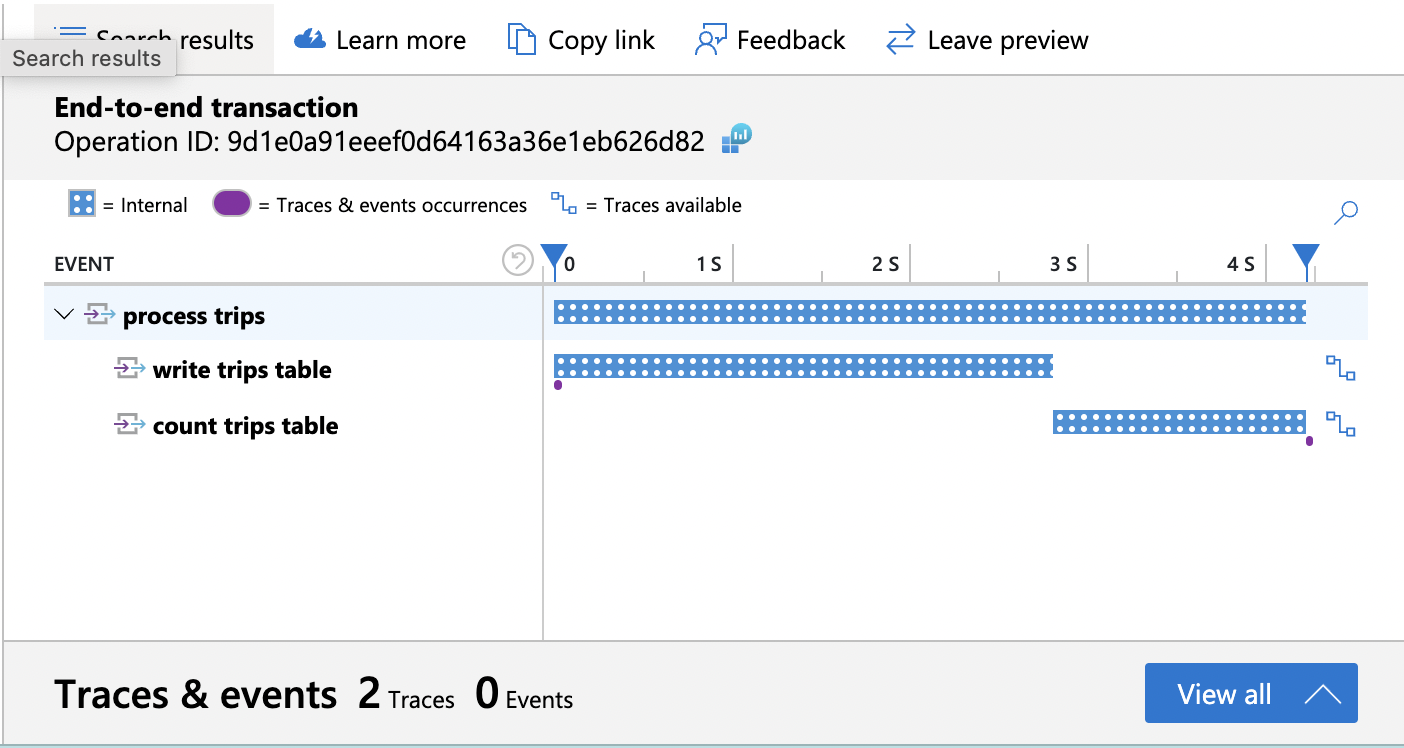
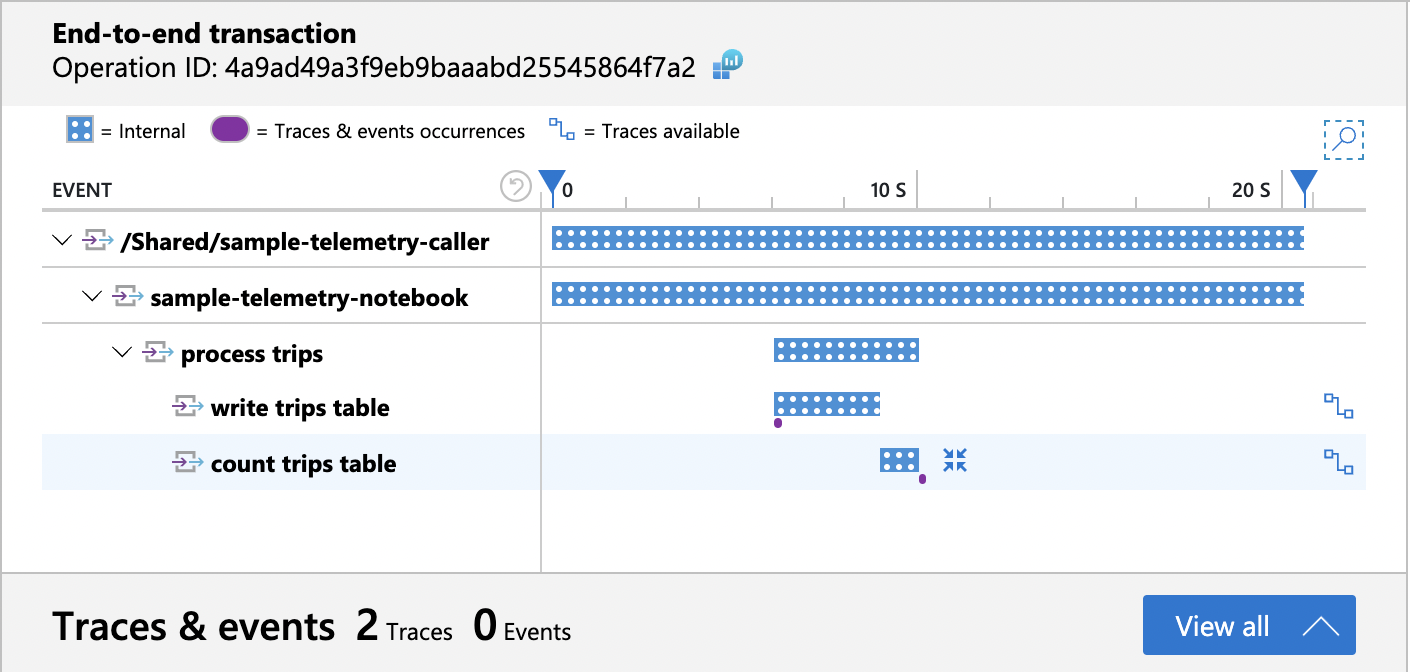
Add notebook span (#8)

diff --git a/modules/databricks/notebooks/telemetry-helper.py b/modules/databricks/notebooks/telemetry-helper.py
@@ -6,7 +6,7 @@ Application Insights. Use the following APIs to _raise_ telemetry:
 - Metrics: `opentelemetry.metrics`
 - Logs: `logging`
 """
-from typing import NamedTuple
+from typing import Any, NamedTuple
 
 _initialized = False  # Stores whether Application Insights was already configured.
 
@@ -73,19 +73,63 @@ def default_notebook_configuration() -> ApplicationInsightsConfiguration:
 
 # COMMAND ----------
 
+trace_context_carrier = None
+try:
+    trace_context_carrier = dbutils.widgets.get("_opentelemetry_trace_context")
+except:
+    pass
+
+if trace_context_carrier:
+    from opentelemetry import context
+    from opentelemetry.trace.propagation.tracecontext import TraceContextTextMapPropagator
+    import json
+    ctx = TraceContextTextMapPropagator().extract(carrier=json.loads(trace_context_carrier))
+    token = context.attach(ctx)
+del(trace_context_carrier)
+
+# COMMAND ----------
+
 import logging
 from opentelemetry import trace, metrics
 
-default_notebook_configuration().configure()
+app_insights_config = default_notebook_configuration()
+app_insights_config.configure()
 
-notebook_name = dbutils.notebook.entry_point.getDbutils().notebook().getContext().notebookPath().get()
+notebook_name = app_insights_config.service_name
+del(app_insights_config)
 
 tracer = trace.get_tracer(notebook_name)
-
-# Create a new root span, set it as the current span in context
-tracer.start_as_current_span(notebook_name)
 
 logger = logging.getLogger(notebook_name)
 logger.setLevel(logging.DEBUG)
 
 meter = metrics.get_meter(notebook_name)
+
+# COMMAND ----------
+
+def run_with_telemetry(path: str, timeout_seconds: int, arguments: Any = None) -> str:
+    """This method runs a notebook and returns its exit value.
+
+    It invokes dbutils.notebook.run() with the provided parameters.
+
+    In addition, it wraps the invocation in telemetry spans for the current
+    and invoked notebook, and passes the telemetry context to the notebook.
+    Calling "%run ./telemetry-helper" causes the telemetry context to be
+    restored in the invoked notebook, attaching spans and traces to the
+    notebook span.
+    """
+
+    from opentelemetry.trace.propagation.tracecontext import TraceContextTextMapPropagator
+    import json
+
+    if arguments is None:
+        arguments = dict()
+
+    with tracer.start_as_current_span(notebook_name):
+        with tracer.start_as_current_span(path):
+            carrier = {}
+            # Write the current context into the carrier.
+            TraceContextTextMapPropagator().inject(carrier)
+            token = json.dumps(carrier)
+            arguments["_opentelemetry_trace_context"] = token
+            dbutils.notebook.run(path, timeout_seconds, arguments)

diff --git a/modules/databricks/notebooks/sample-telemetry-caller.py b/modules/databricks/notebooks/sample-telemetry-caller.py
@@ -1,0 +1,6 @@
+# Databricks notebook source
+# MAGIC %run ./telemetry-helper
+
+# COMMAND ----------
+
+run_with_telemetry("sample-telemetry-notebook", timeout_seconds=0)
